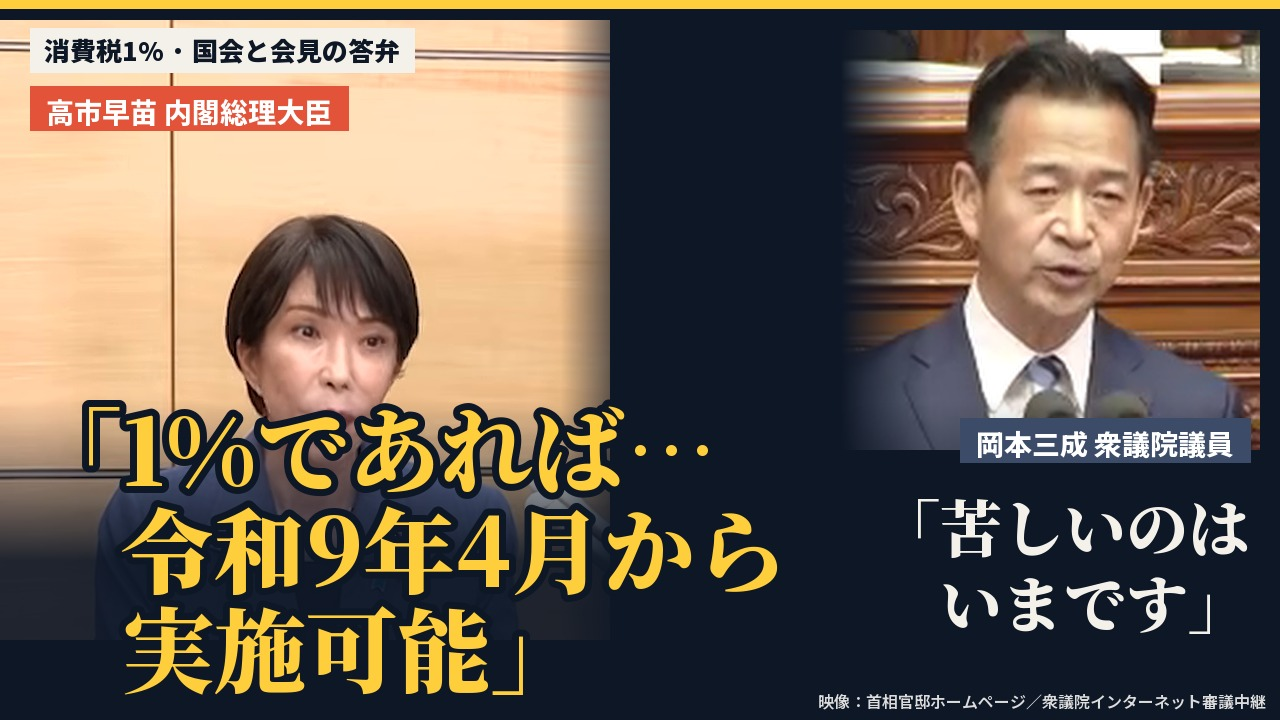
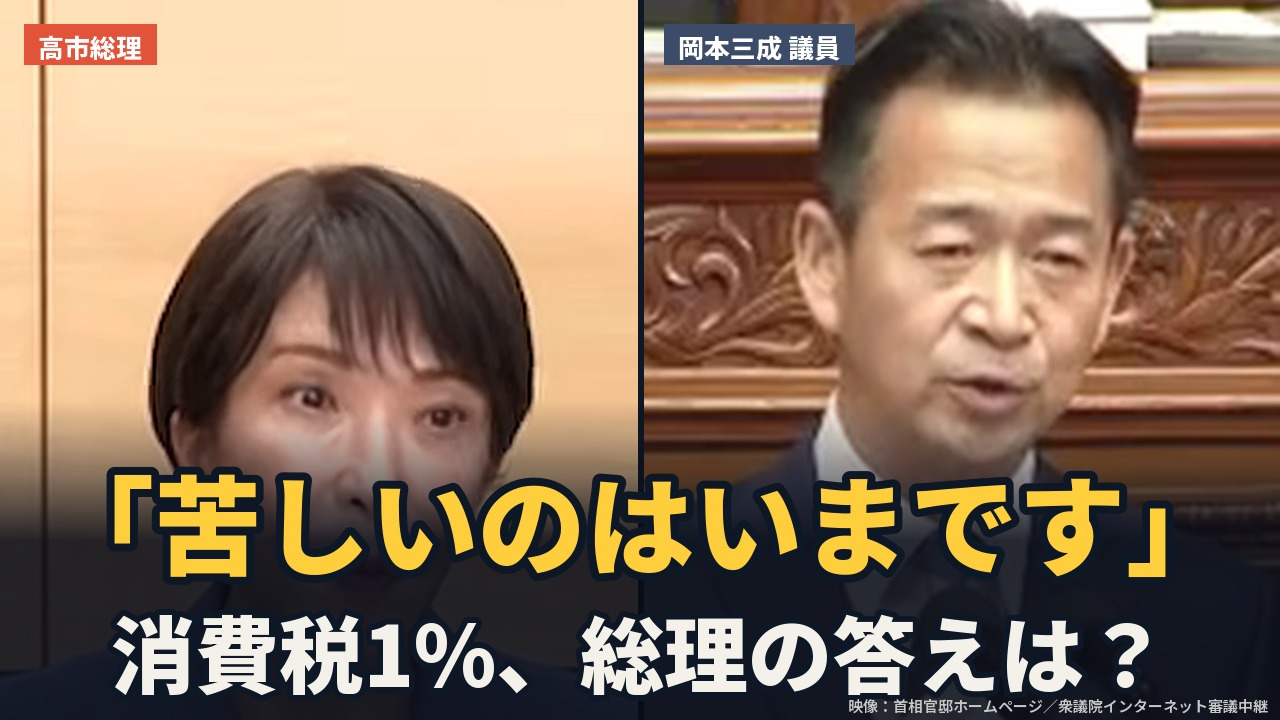
fix(politics-ja): 1편 루프 썸네일을 정치 썸네일 규칙대로 — 얼굴 둘 위 60%·아래 두 줄(발언 원문·궁금증)만, 글자 줄임 (소유주 10-20 «키워드·섬네일»)
Claude-Session: https://claude.ai/code/session_01E4L9mzJtjSwpwbToT4ihoC

diff --git a/politics-hour-ja/episodes/20261016/thumb/make_thumb_vs.py b/politics-hour-ja/episodes/20261016/thumb/make_thumb_vs.py
@@ -1,6 +1,7 @@
 # -*- coding: utf-8 -*-
-"""10/20 새 포장 2개(관리자 «인물 이름 + 본인 한마디 — 상대 인물», ko 비교표 규칙) — 인물 얼굴 둘 + 실제 발언 인용(원문 그대로, 줄임은 …).
-왼쪽 = 고이치 총리(官邸 회견 iiY537K7WPQ 520초, PDL1.0), 오른쪽 = 岡本三成 의원(衆議院本会議 10/7 1602.5초, 인용 — 640x360 이라 작게).
+"""10/20 루프 묶음 썸네일 — 정치 썸네일 규칙(소유주 10/14·15): 얼굴 둘이 위 60%를 크게 채움, 글자는 아래 두 줄만
+(윗줄 = 사진 속 인물의 실제 발언 원문·금색 큰 글씨, 아랫줄 = 궁금증·흰 글씨), 글자 뒤만 그라데이션, 이름은 작은 칩, 출처 구석.
+왼쪽 = 고이치 총리(官邸 회견 iiY537K7WPQ 520초, PDL1.0), 오른쪽 = 岡本三成 의원(衆議院本会議 10/7 1602.5초, 인용).
 python make_thumb_vs.py c|g"""
 import sys
 from pathlib import Path
@@ -11,8 +12,8 @@ F = Path('D:/midform/politics-hour-ja/assets/fonts')
 W, H = 1280, 720
 NAVY, ACC, GOLD, PAPER = (14, 23, 38), (226, 83, 58), (255, 206, 60), (244, 241, 234)
 SPEC = {
-    'c': dict(tag='消費税1% · 国会と会見の答弁', mine=['「1%であれば…', '　令和9年4月から', '　実施可能」'], theirs=['「苦しいのは', '　いまです」']),
-    'g': dict(tag='ガソリン補助 · 衆議院本会議 10/7', mine=['「あくまでも', '　激変緩和措置」'], theirs=['「1リットル51円と', '　過去最高額」']),
+    'c': dict(top='「苦しいのはいまです」', bottom='消費税1%、総理の答えは？'),
+    'g': dict(top='「あくまでも激変緩和措置」', bottom='ガソリン補助、いつまで？'),
 }
 
 
@@ -22,57 +23,42 @@ def font(name, size, weight):
     return f
 
 
-def fade_h(img, x0, x1, left_solid):   # 가로 그라데이션으로 남색에 녹인다
-    m = Image.new('L', (W, H), 0); d = ImageDraw.Draw(m)
-    for x in range(W):
-        k = 0 if x < x0 else 1 if x > x1 else (x - x0) / (x1 - x0)
-        d.line([(x, 0), (x, H)], fill=int(255 * ((1 - k) if left_solid else k)))
-    return Image.composite(Image.new('RGB', (W, H), NAVY), img, m)
-
-
-key = sys.argv[1]
-s = SPEC[key]
+s = SPEC[sys.argv[1]]
 img = Image.new('RGB', (W, H), NAVY)
-tk = ImageEnhance.Contrast(Image.open(HERE / 'kk_520.png').convert('RGB').crop((220, 70, 760, 610)).resize((620, 620), Image.LANCZOS)).enhance(1.08)
-img.paste(tk, (-10, 20))
-img = fade_h(img, 560, 640, False)   # 고이치 얼굴 오른쪽 끝을 녹인다
-ok = Image.open(HERE / 'ok_1602.5.png').convert('RGB').crop((250, 22, 410, 182)).resize((420, 420), Image.LANCZOS)
-ok = ImageEnhance.Sharpness(ok.filter(ImageFilter.GaussianBlur(.6))).enhance(1.6)
-om = Image.new('L', ok.size, 0); od = ImageDraw.Draw(om)
-for x in range(ok.width):   # 岡本 얼굴 왼쪽 가장자리도 녹인다
-    od.line([(x, 0), (x, ok.height)], fill=min(255, int(255 * x / 90)))
-img.paste(ok, (W - 440, 30), om)
+# 얼굴 둘을 화면 반씩, 눈높이 ≈ 위 25%
+tk = Image.open(HERE / 'kk_520.png').convert('RGB').crop((360, 150, 640, 500))          # 280x350 → 640x800
+tk = ImageEnhance.Contrast(tk.resize((640, 800), Image.LANCZOS)).enhance(1.08)
+img.paste(tk, (0, -40))
+ok = Image.open(HERE / 'ok_1602.5.png').convert('RGB').crop((258, 18, 402, 198))         # 144x180 → 640x800
+ok = ImageEnhance.Sharpness(ok.resize((640, 800), Image.LANCZOS).filter(ImageFilter.GaussianBlur(1.2))).enhance(1.8)
+img.paste(ok, (640, -40))
+dr = ImageDraw.Draw(img)
+dr.line([(640, 0), (640, H)], fill=NAVY, width=6)
+# 글자 뒤만 그라데이션(아래 40%)
 m = Image.new('L', (W, H), 0); d = ImageDraw.Draw(m)
 for y in range(H):
-    d.line([(0, y), (W, y)], fill=min(235, max(0, int(235 * (y - 400) / 160))))
-img = Image.composite(Image.new('RGB', (W, H), NAVY), img, m)
+    d.line([(0, y), (W, y)], fill=min(225, max(0, int(225 * (y - 400) / 140))))
+img = Image.composite(Image.new('RGB', (W, H), (8, 12, 22)), img, m)
 dr = ImageDraw.Draw(img)
 
 
-def txt(xy, t, f, fill, stroke=6):
-    dr.text(xy, t, font=f, fill=fill, stroke_width=stroke, stroke_fill=NAVY)
+def fit(t, name, size, weight, maxw):
+    f = font(name, size, weight)
+    while dr.textlength(t, font=f) > maxw:
+        size -= 4; f = font(name, size, weight)
+    return f
 
 
-dr.rectangle([0, 0, W, 8], fill=GOLD)
-tf = font('NotoSansJP.ttf', 26, 900)
-dr.rectangle([30, 28, 30 + dr.textlength(s['tag'], font=tf) + 28, 72], fill=PAPER)
-dr.text((44, 30), s['tag'], font=tf, fill=NAVY)
-q = font('NotoSerifJP.ttf', 92 if len(s['mine']) == 3 else 104, 900)
-y = 380 if len(s['mine']) == 3 else 440
-for ln in s['mine']:
-    txt((30, y), ln, q, GOLD, 7); y += q.size + 8
-q2 = font('NotoSerifJP.ttf', 62, 900)
-y = 480
-for ln in s['theirs']:
-    txt((W - 30 - max(dr.textlength(x, font=q2) for x in s['theirs']), y), ln, q2, PAPER, 5); y += 76
-nm = font('NotoSansJP.ttf', 28, 800)
-for label, x, right, fill in (('高市早苗 内閣総理大臣', 30, False, ACC), ('岡本三成 衆議院議員', W - 30, True, (60, 76, 104))):
+f1 = fit(s['top'], 'NotoSansJP.ttf', 112, 900, W - 60)
+dr.text((W / 2, 520), s['top'], font=f1, fill=GOLD, anchor='mm', stroke_width=8, stroke_fill=NAVY)
+f2 = fit(s['bottom'], 'NotoSansJP.ttf', 84, 900, W - 80)
+dr.text((W / 2, 650), s['bottom'], font=f2, fill=PAPER, anchor='mm', stroke_width=6, stroke_fill=NAVY)
+nm = font('NotoSansJP.ttf', 26, 800)
+for label, x, fill in (('高市総理', 24, ACC), ('岡本三成 議員', 664, (60, 76, 104))):
     tw = dr.textlength(label, font=nm)
-    x0 = x - tw - 32 if right else x
-    yy = 86 if not right else 418
-    dr.rectangle([x0, yy, x0 + tw + 32, yy + 44], fill=fill)
-    dr.text((x0 + 16, yy + 4), label, font=nm, fill=(255, 255, 255))
-dr.text((W - 14, H - 12), '映像：首相官邸ホームページ／衆議院インターネット審議中継', font=font('NotoSansJP.ttf', 16, 600), fill=(220, 220, 220), anchor='rs')
-out = HERE / f'thumb_vs_{key}.jpg'
+    dr.rectangle([x, 24, x + tw + 28, 64], fill=fill)
+    dr.text((x + 14, 27), label, font=nm, fill=(255, 255, 255))
+dr.text((W - 12, H - 8), '映像：首相官邸ホームページ／衆議院インターネット審議中継', font=font('NotoSansJP.ttf', 15, 600), fill=(200, 200, 200), anchor='rs')
+out = HERE / f'thumb_vs_{sys.argv[1]}.jpg'
 img.save(out, quality=92)
 print(out)
